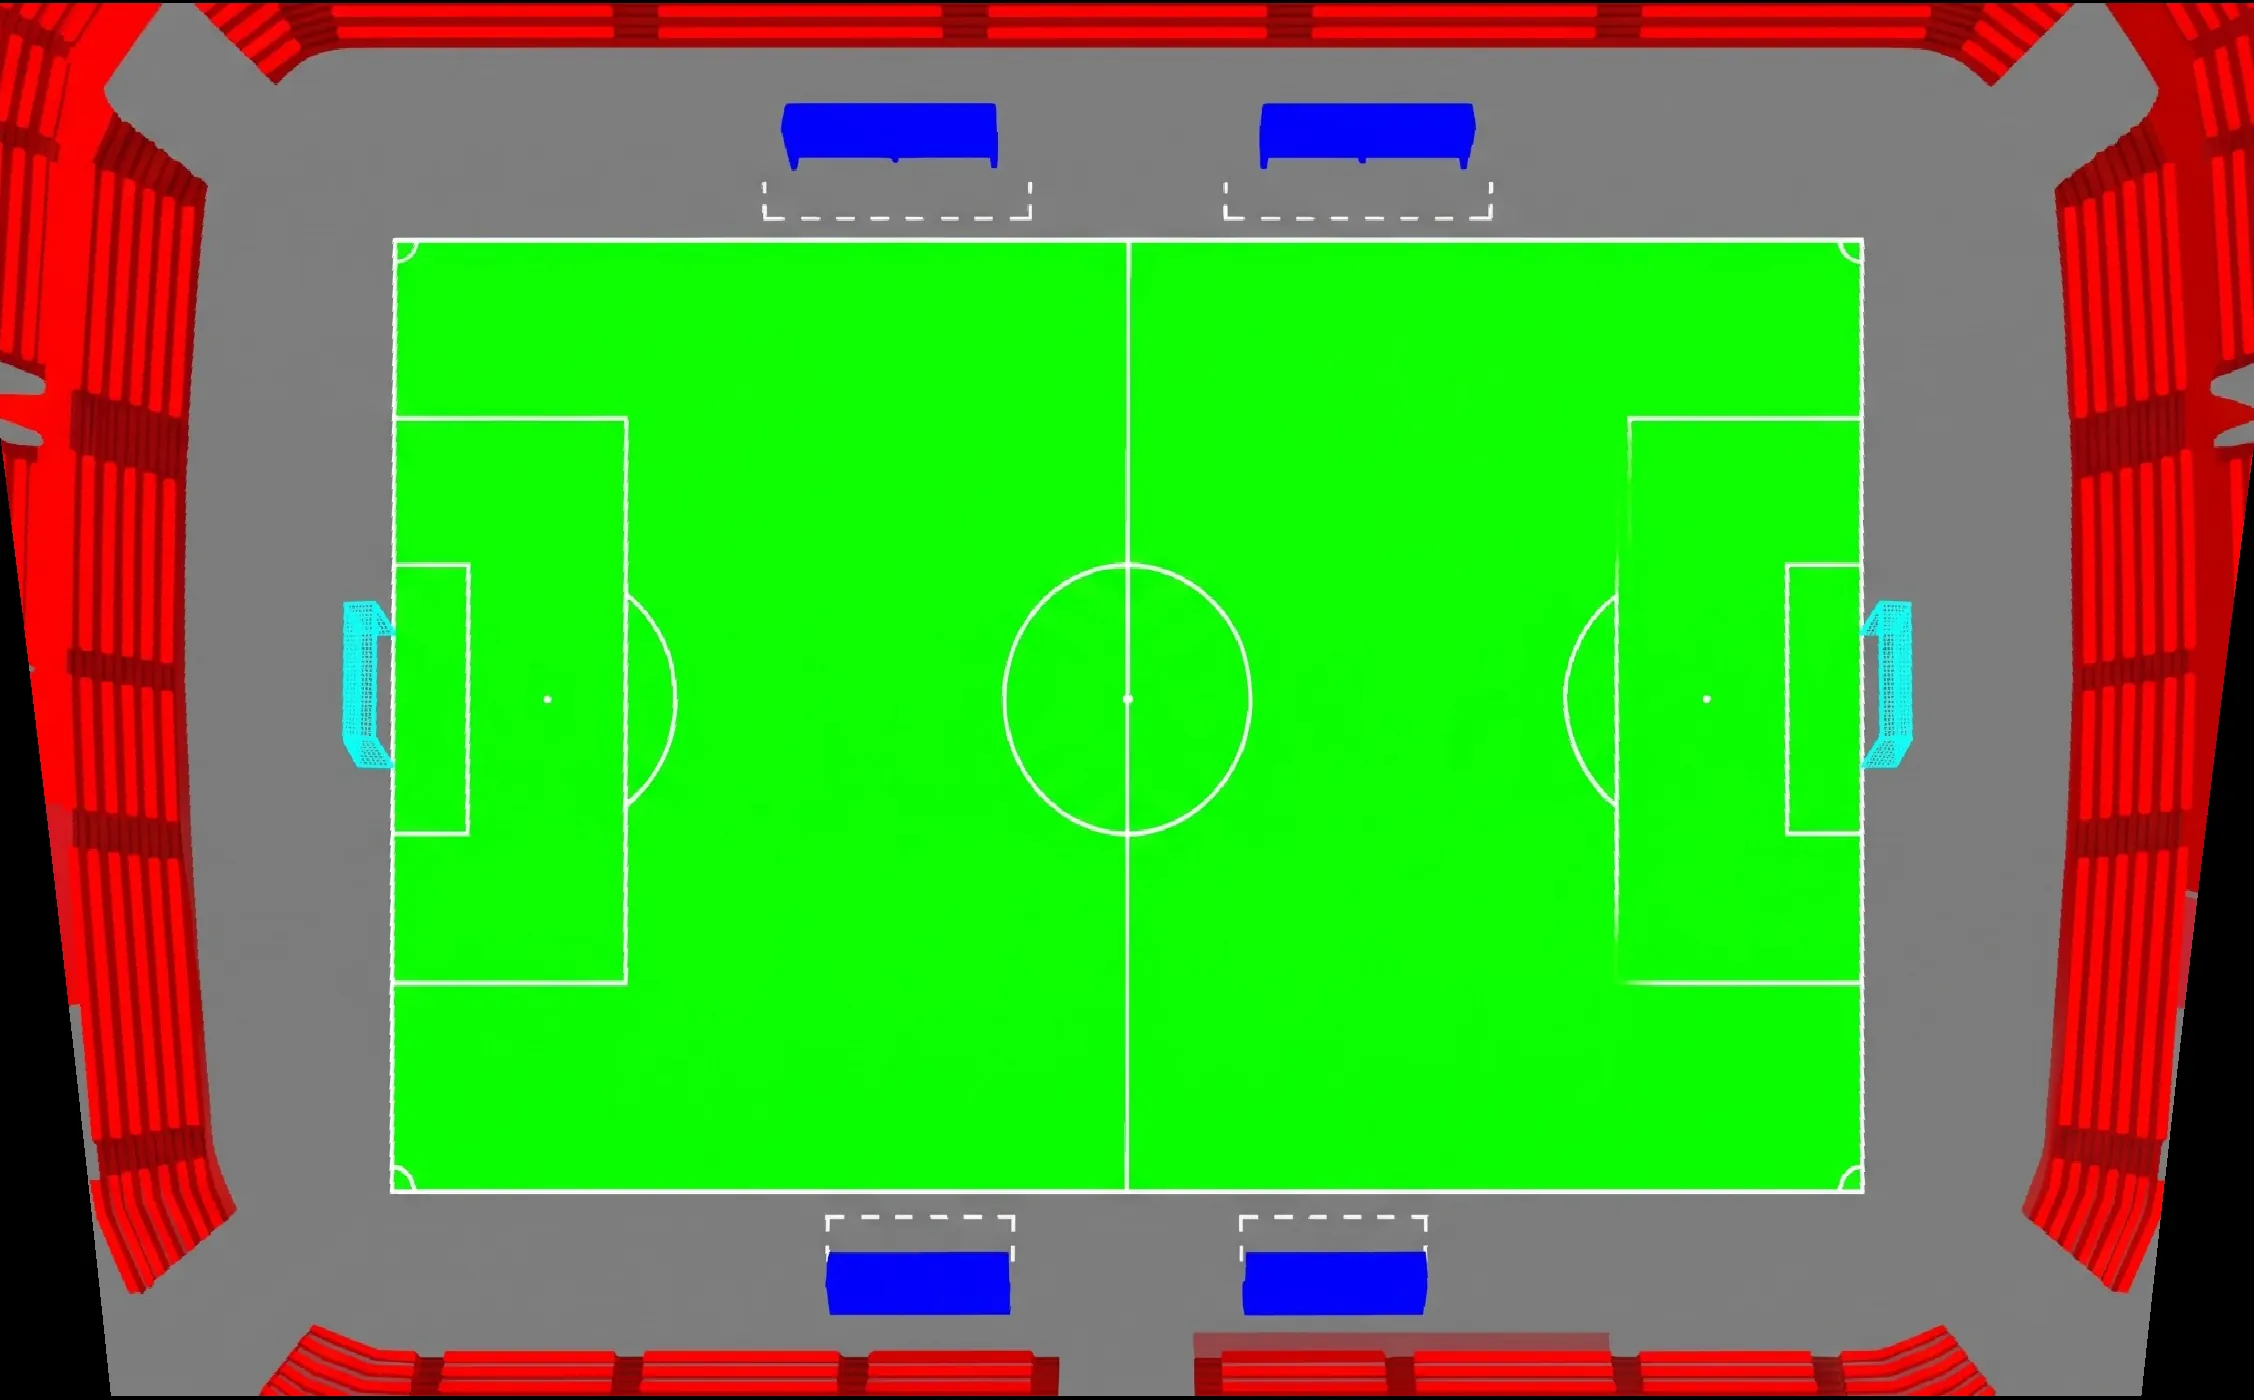
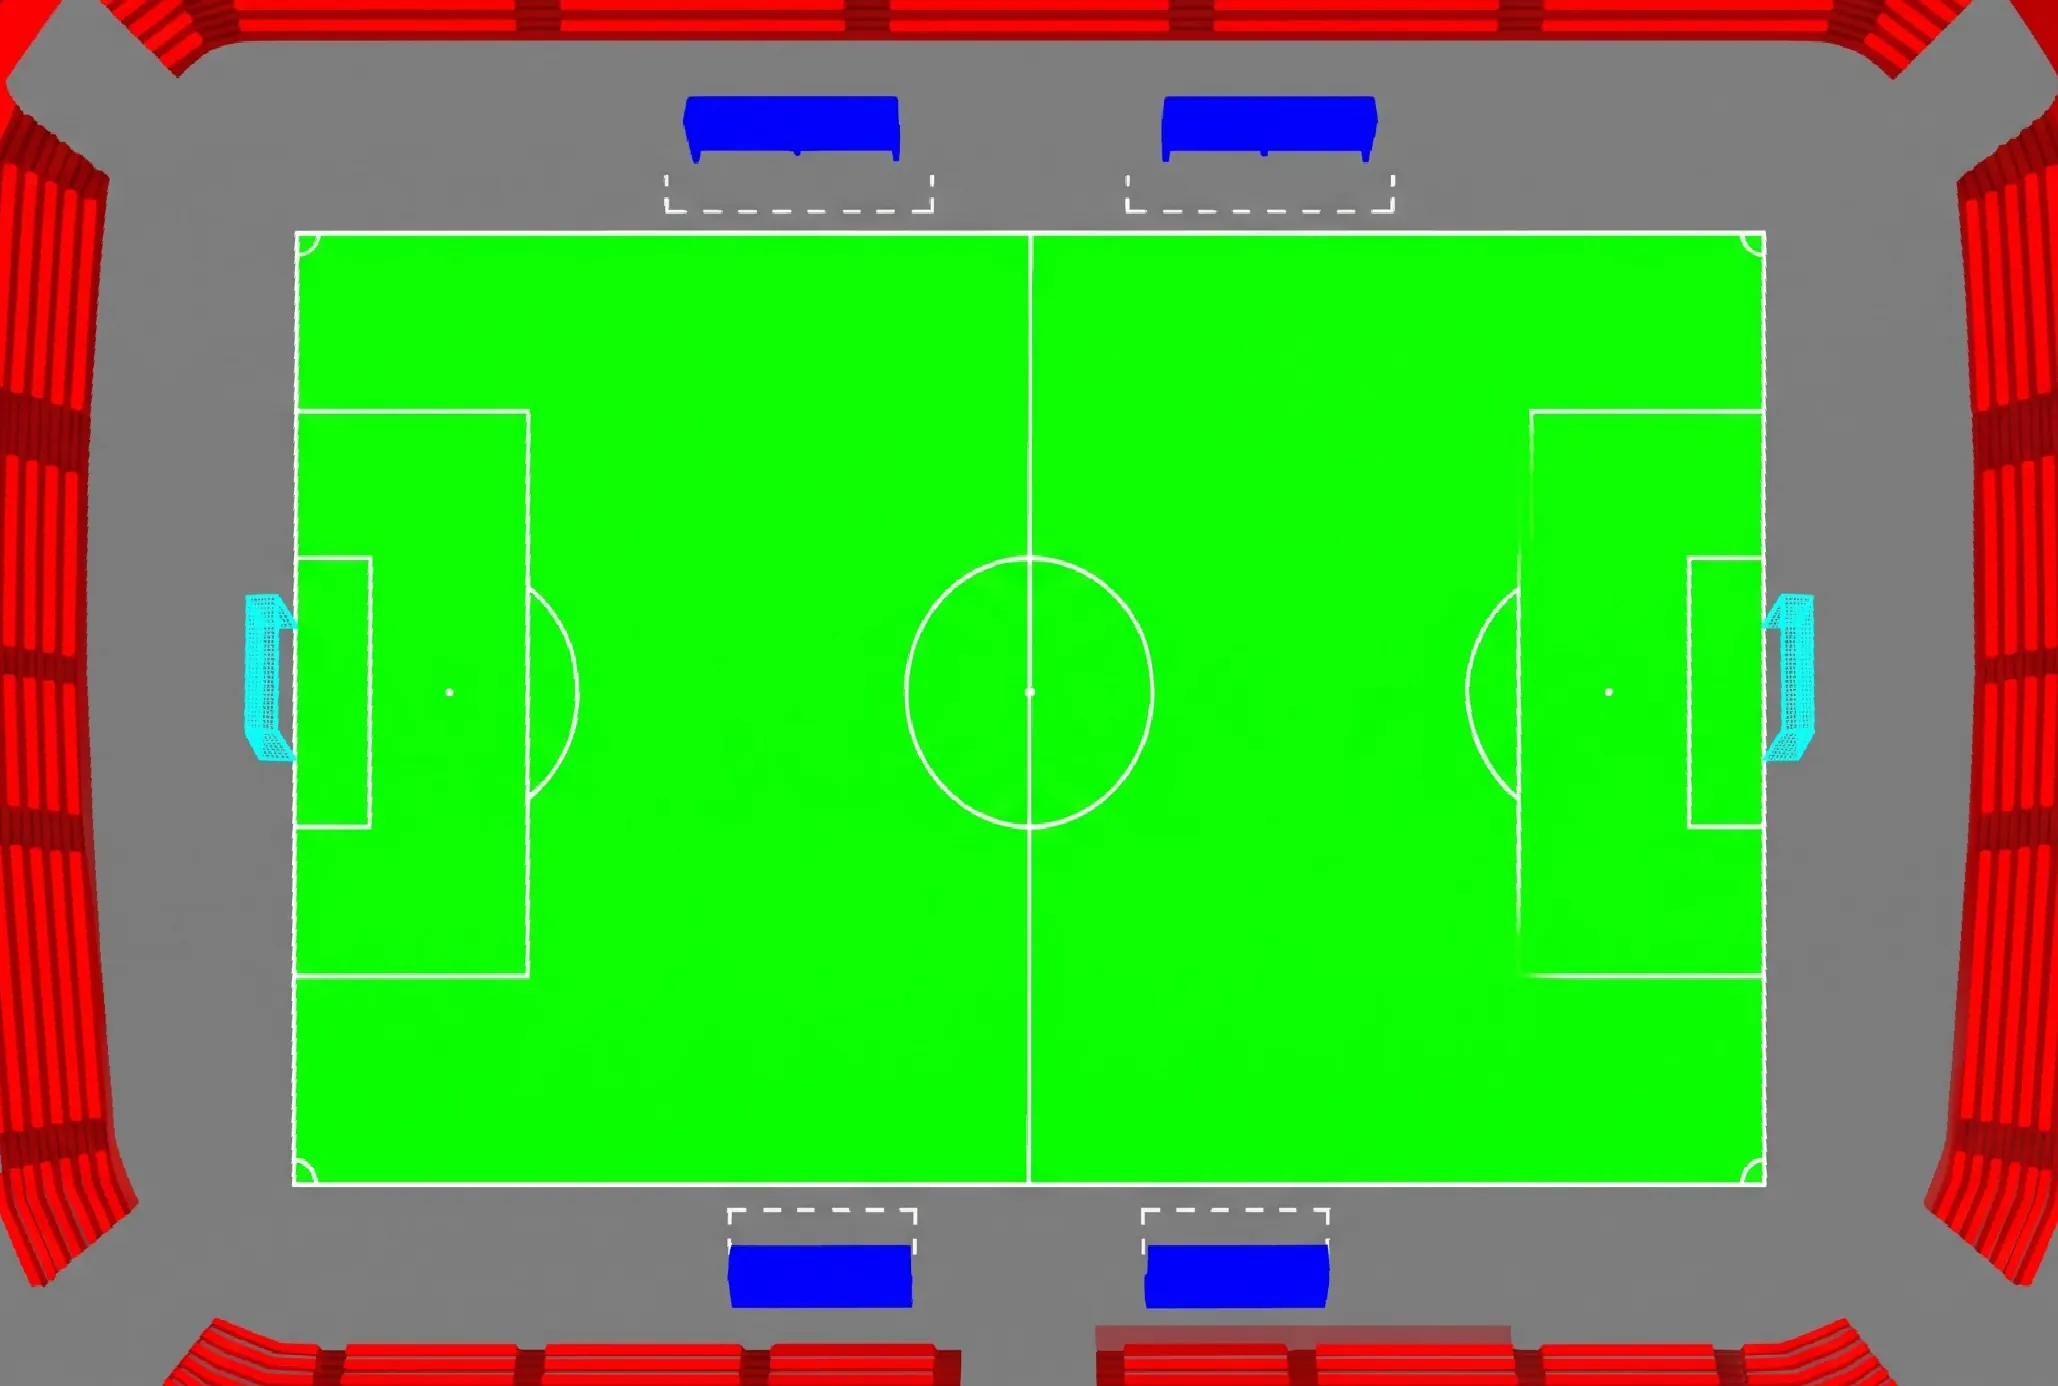
Estadio dibujado: sin bandas cortadas en los extremos (se recorta a lo que cubre la imagen)
Claude-Session: https://claude.ai/code/session_01WRVFSLSbn8JSFQhYwgTVQi

Changed region(s): [[0.0, 0.0, 1.0, 1.0], [0.4354, 0.4033, 0.5598, 0.6205]]

diff --git a/js/pitch.js b/js/pitch.js
@@ -105,7 +105,7 @@
   // Estadio dibujado (prueba): ?campo=arte lo activa, ?campo=no lo quita
   const ART = { on: false, img: null };
   // Lo que cubre el estadio dibujado (campo, gradas y público): la cámara puede ir hasta ahí
-  const ART_VIEW = { x0: -28, x1: 133, y0: -17, y1: 83 };
+  const ART_VIEW = { x0: -21, x1: 126, y0: -16.5, y1: 82.5 };
   try {
     const q = new URLSearchParams(location.search).get('campo');
     if (q) localStorage.setItem('touchline.campo', q === 'arte' ? '1' : '0');
@@ -233,7 +233,7 @@
 
     /** Zoom de la cámara (1 = campo entero; más, sigue el balón). */
     setZoom(z) {
-      this.zoom = clamp(z, ART.on ? 0.7 : 1, 3);
+      this.zoom = clamp(z, ART.on ? 0.8 : 1, 3);
       if (this.onZoom) this.onZoom(this.zoom);
     }
 
